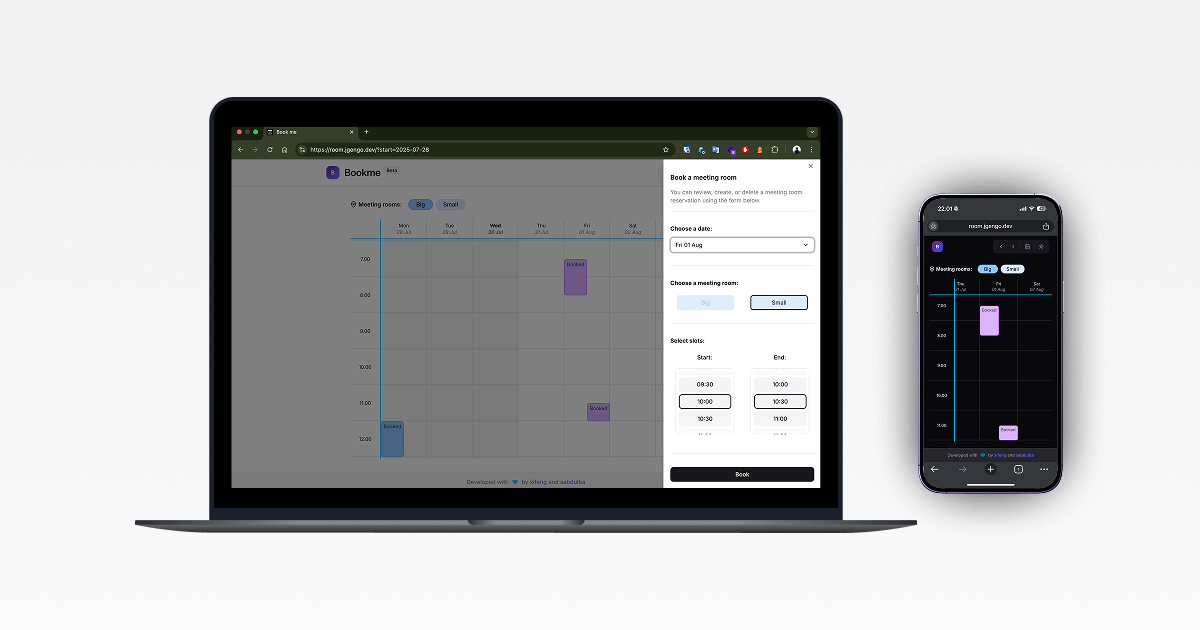
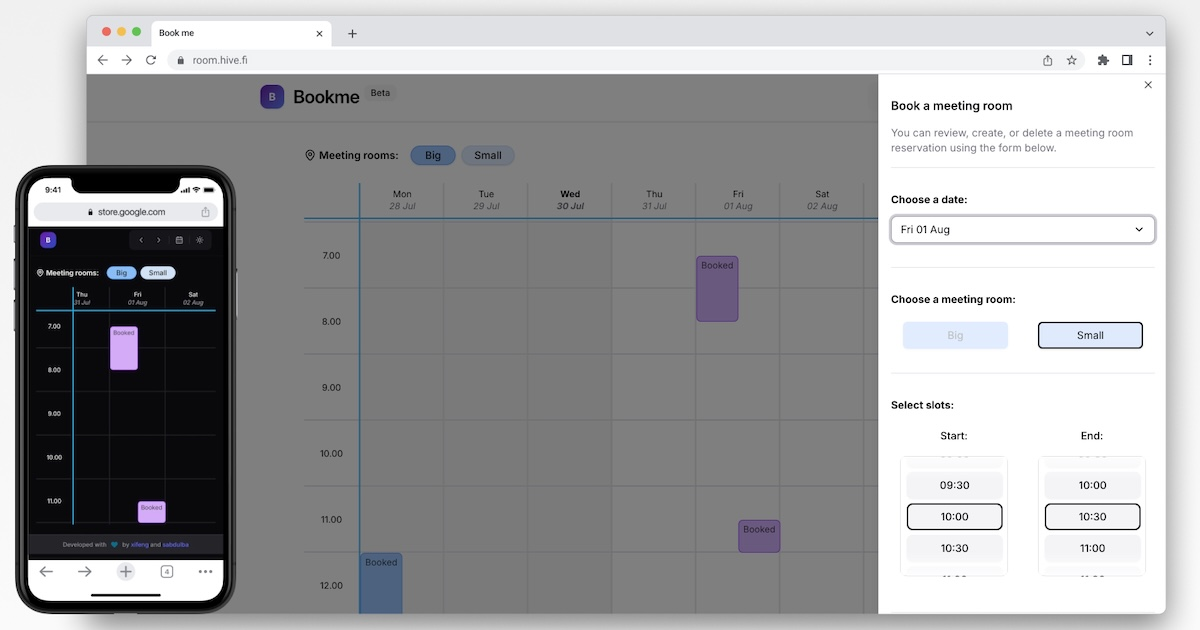
Add meta tags for SEO and social media sharing in index.html, update the screenshot for better visual.

diff --git a/index.html b/index.html
@@ -11,6 +11,37 @@
       rel="stylesheet"
     />
     <title>Book me</title>
+    <meta name="title" content="Book me - A Meeting Room Booking Calendar for Hive Helsinki" />
+    <meta
+      name="description"
+      content="Book me is a meeting room booking application designed for Hive Helsinki. This app is to help staff and students easily find and book meeting rooms."
+    />
+
+    <meta property="og:site_name" content="Book me" />
+    <meta property="og:url" content="https://room.hive.fi" />
+    <meta property="og:type" content="website" />
+    <meta
+      property="og:title"
+      content="Book me - A Meeting Room Booking Calendar for Hive Helsinki"
+    />
+    <meta
+      property="og:description"
+      content="Book me is a meeting room booking application designed for Hive Helsinki. This app is to help staff and students easily find and book meeting rooms."
+    />
+    <meta property="og:image" content="https://room.hive.fi/Screenshot.jpg" />
+
+    <meta name="twitter:card" content="summary_large_image" />
+    <meta property="twitter:domain" content="room.hive.fi" />
+    <meta property="twitter:url" content="https://room.hive.fi" />
+    <meta
+      name="twitter:title"
+      content="Book me - A Meeting Room Booking Calendar for Hive Helsinki"
+    />
+    <meta
+      name="twitter:description"
+      content="Book me is a meeting room booking application designed for Hive Helsinki. This app is to help staff and students easily find and book meeting rooms."
+    />
+    <meta name="twitter:image" content="https://room.hive.fi/Screenshot.jpg" />
   </head>
   <body>
     <div id="root"></div>
